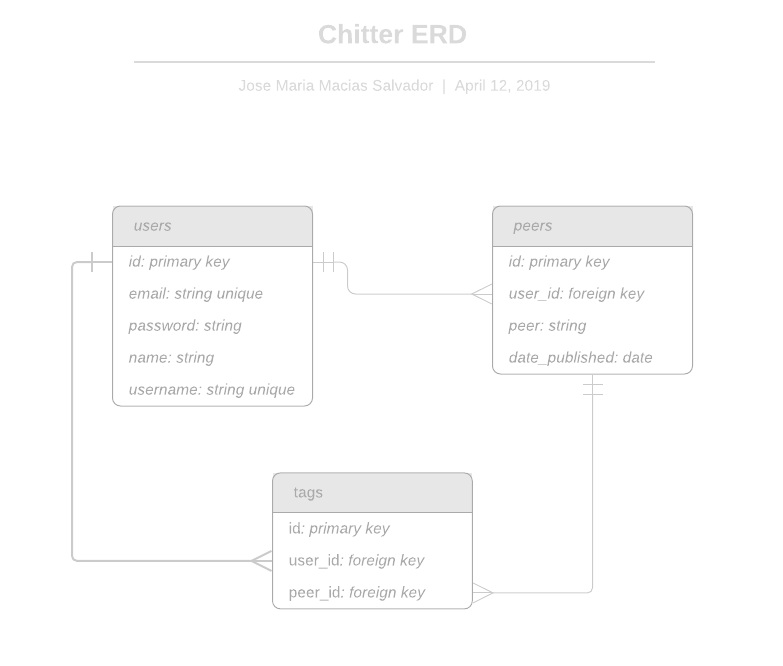
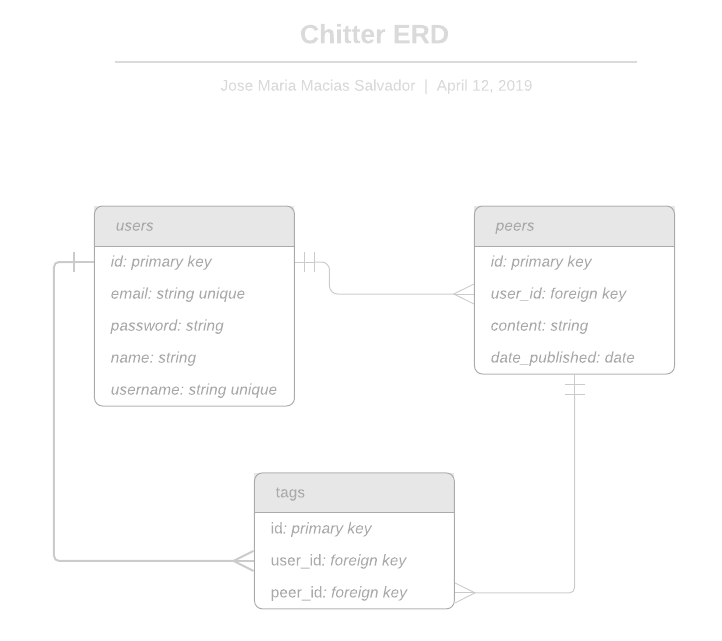
Listing and adding peers emplemented. Added database_connection to handle the database, and tests. Added database_test_setup to set the testing database to the setupo requirements. Added methods all, create and initialize in peer to add the desired features. Also added tests.

diff --git a/public/css/styles.css b/public/css/styles.css
@@ -1,0 +1,13 @@
+.peers-list {
+  border-left: 3px solid;
+  border-color: #2196F3;
+  box-sizing: inherit;
+  color: #000;
+  background-color: #ddffff;
+  margin-top: 5px;
+  margin-bottom: 5px;
+  margin-right: 5px;
+  margin-left: 10px;
+  box-sizing: inherit;
+  padding: 0.01em 16px;
+}

diff --git a/lib/peer.rb b/lib/peer.rb
@@ -1,0 +1,35 @@
+require_relative "./database_connection.rb"
+
+class Peer
+  attr_reader :id, :user_id, :content, :date_published
+  def self.all
+    peers = DatabaseConnection.query('SELECT * FROM peers;')
+    peers.map do |peer|
+      Peer.new(
+        id: peer['id'],
+        user_id: peer['user_id'],
+        content: peer['content'],
+        date_published: peer['date_published']
+      )
+    end
+  end
+
+  def self.create(user_id:, content:)
+    result = DatabaseConnection.query("INSERT INTO peers (user_id, content)
+      VALUES('#{user_id}', '#{content}')
+      RETURNING *;")
+      # id, content, user_id, date_published
+    Peer.new(id: result[0]['id'], content: result[0]['content'],
+        user_id: result[0]['user_id'], date_published: result[0]['date_published'])
+  end
+
+
+  private
+
+  def initialize(id:, user_id:, content:, date_published:)
+    @id = id
+    @user_id = user_id
+    @content = content
+    @date_published = date_published
+  end
+end

diff --git a/spec/unit/database_connection_spec.rb b/spec/unit/database_connection_spec.rb
@@ -1,0 +1,27 @@
+require 'database_connection'
+
+describe DatabaseConnection do
+  describe '.setup' do
+    it 'sets up a connection to a database through PG' do
+      expect(PG).to receive(:connect).with(dbname: 'chitter_test')
+
+      DatabaseConnection.setup('chitter_test')
+    end
+
+    it 'this connection is persistent' do
+      connection = DatabaseConnection.setup('chitter_test')
+
+      expect(DatabaseConnection.connection).to eq connection
+    end
+  end
+
+  describe '.query' do
+    it 'executes a query via PG' do
+      connection = DatabaseConnection.setup('chitter_test')
+
+      expect(connection).to receive(:exec).with("SELECT * FROM peers;")
+
+      DatabaseConnection.query("SELECT * FROM peers;")
+    end
+  end
+end

diff --git a/spec/features/add_peer_spec.rb b/spec/features/add_peer_spec.rb
@@ -1,0 +1,19 @@
+feature "Add peers" do
+  scenario "You can add a new peer and list it" do
+    visit("/peers/add")
+    fill_in :content, with: "Testing the add peers feature"
+    # fill_in :user, with: "BBC"
+    click_button "Chit"
+    expect(page).to have_content "Testing the add peers feature"
+  end
+
+  # scenario 'The bookmark must be a valid URL' do
+  #   visit('/bookmarks/add')
+  #   fill_in :bookmark_title, with: 'not a real bookmark'
+  #   fill_in :bookmark_url, with: 'not a real bookmark'
+  #   click_button('Add')
+  #
+  #   expect(page).not_to have_content "not a real bookmark"
+  #   expect(page).to have_content "You must submit a valid URL."
+  # end
+end

diff --git a/spec/unit/peer_spec.rb b/spec/unit/peer_spec.rb
@@ -1,0 +1,25 @@
+require 'peer'
+
+describe Peer do
+  describe ".all" do
+    it "return a lsit with all peers back" do
+      peers = Peer.all
+
+      expect(peers.length).to eq 1
+      expect(peers.first).to be_a Peer
+      expect(peers.first.id).to eq "1"
+      expect(peers.first.content).to eq "First test peer"
+    end
+  end
+
+  describe '.create' do
+    it 'creates a new peer' do
+      peer = Peer.create(user_id: 1, content: 'Create test')
+      # persisted_data = persisted_data(id: bookmark.id, table: 'bookmarks')
+
+      expect(peer).to be_a Peer
+      expect(peer.user_id).to eq "1"
+      expect(peer.content).to eq 'Create test'
+    end
+  end
+end

diff --git a/spec/spec_helper.rb b/spec/spec_helper.rb
@@ -3,9 +3,11 @@ require 'simplecov-console'
 require 'capybara'
 require 'capybara/rspec'
 require 'rspec'
+require_relative "./setup_test_database.rb"
 require File.join(File.dirname(__FILE__), '..', 'app.rb')
 
 ENV['RACK_ENV'] = 'test'
+ENV['ENVIRONMENT'] = 'test'
 
 SimpleCov.formatter = SimpleCov::Formatter::MultiFormatter.new([
   SimpleCov::Formatter::Console,
@@ -17,6 +19,9 @@ SimpleCov.start
 Capybara.app = Chitter
 
 RSpec.configure do |config|
+  config.before(:each) do
+    setup_test_database
+  end
   config.after(:suite) do
     puts
     puts "\e[33mHave you considered running rubocop? It will help you improve your code!\e[0m"

diff --git a/spec/setup_test_database.rb b/spec/setup_test_database.rb
@@ -1,0 +1,12 @@
+def setup_test_database
+  connection = PG.connect(dbname: 'chitter_test')
+
+  # Clear the bookmarks table
+  connection.exec("TRUNCATE users, peers;")
+
+  # Add the rewuired bookmarks to the tests
+  connection.exec("INSERT INTO users VALUES(1, 'test@test.com', 'password123', 'Test Tester', 'Tester');")
+  connection.exec("INSERT INTO peers VALUES(1, 1, 'First test peer', DEFAULT);")
+  # connection.exec("INSERT INTO bookmarks VALUES(2, 'http://www.destroyallsoftware.com', 'Destroy all Software');")
+  # connection.exec("INSERT INTO bookmarks VALUES(3, 'http://www.google.com', 'Google');")
+end

diff --git a/app.rb b/app.rb
@@ -1,11 +1,29 @@
 require 'sinatra/base'
 require 'sinatra/flash'
 
+require_relative './lib/peer'
+require_relative './database_connection_setup'
+
 class Chitter < Sinatra::Base
   enable :sessions, :method_override
   register Sinatra::Flash
 
   get '/' do
     'Chitter'
+  end
+
+  get '/peers' do
+    @peers = Peer.all
+    erb :"peers/index"
+  end
+
+  get "/peers/add" do
+    erb :"peers/add"
+  end
+
+  post "/peers/add" do
+    # flash[:notice] = "You must submit a valid URL." unless
+    Peer.create(user_id: 1, content: params[:content])
+    redirect("/peers")
   end
 end

diff --git a/spec/features/show_peers_spec.rb b/spec/features/show_peers_spec.rb
@@ -4,3 +4,11 @@ feature 'visiting the homepage' do
     expect(page).to have_content 'Chitter'
   end
 end
+
+feature "visiting the peers page" do
+  scenario "show the list of peers" do
+    visit "/peers"
+    expect(page).to have_content "What are Makers saying:"
+    expect(page).to have_content "First test peer"
+  end
+end

diff --git a/lib/database_connection.rb b/lib/database_connection.rb
@@ -1,0 +1,15 @@
+require 'pg'
+
+class DatabaseConnection
+  def self.setup(dbname)
+    @connection = PG.connect(dbname: dbname)
+  end
+
+  def self.connection
+    @connection
+  end
+
+  def self.query(sql)
+    @connection.exec(sql)
+  end
+end

diff --git a/database_connection_setup.rb b/database_connection_setup.rb
@@ -1,0 +1,7 @@
+require './lib/database_connection'
+
+if ENV['ENVIRONMENT'] == 'test'
+  DatabaseConnection.setup('chitter_test')
+else
+  DatabaseConnection.setup('chitter')
+end
